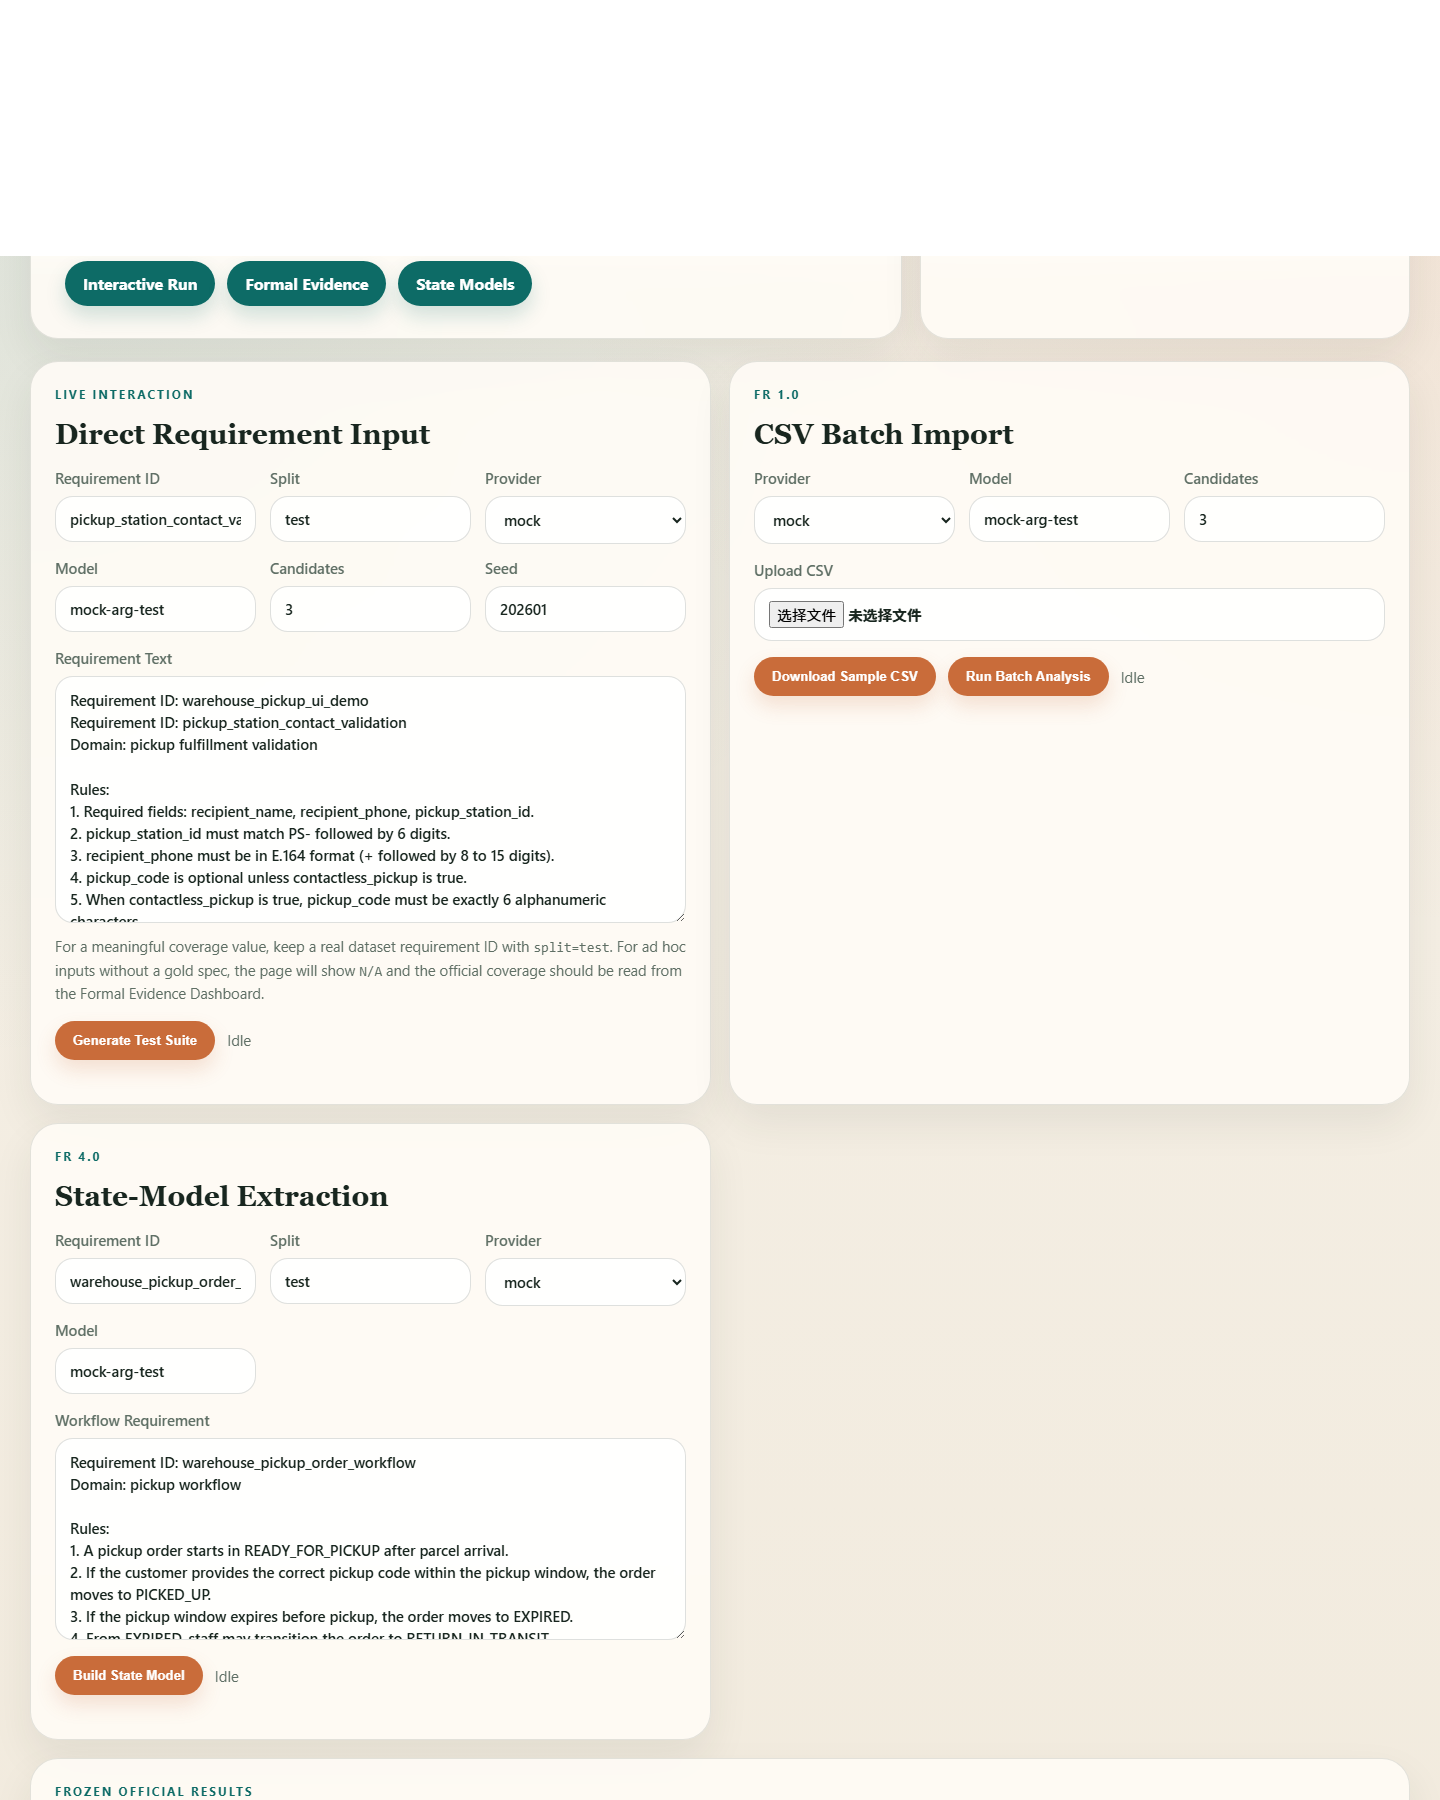
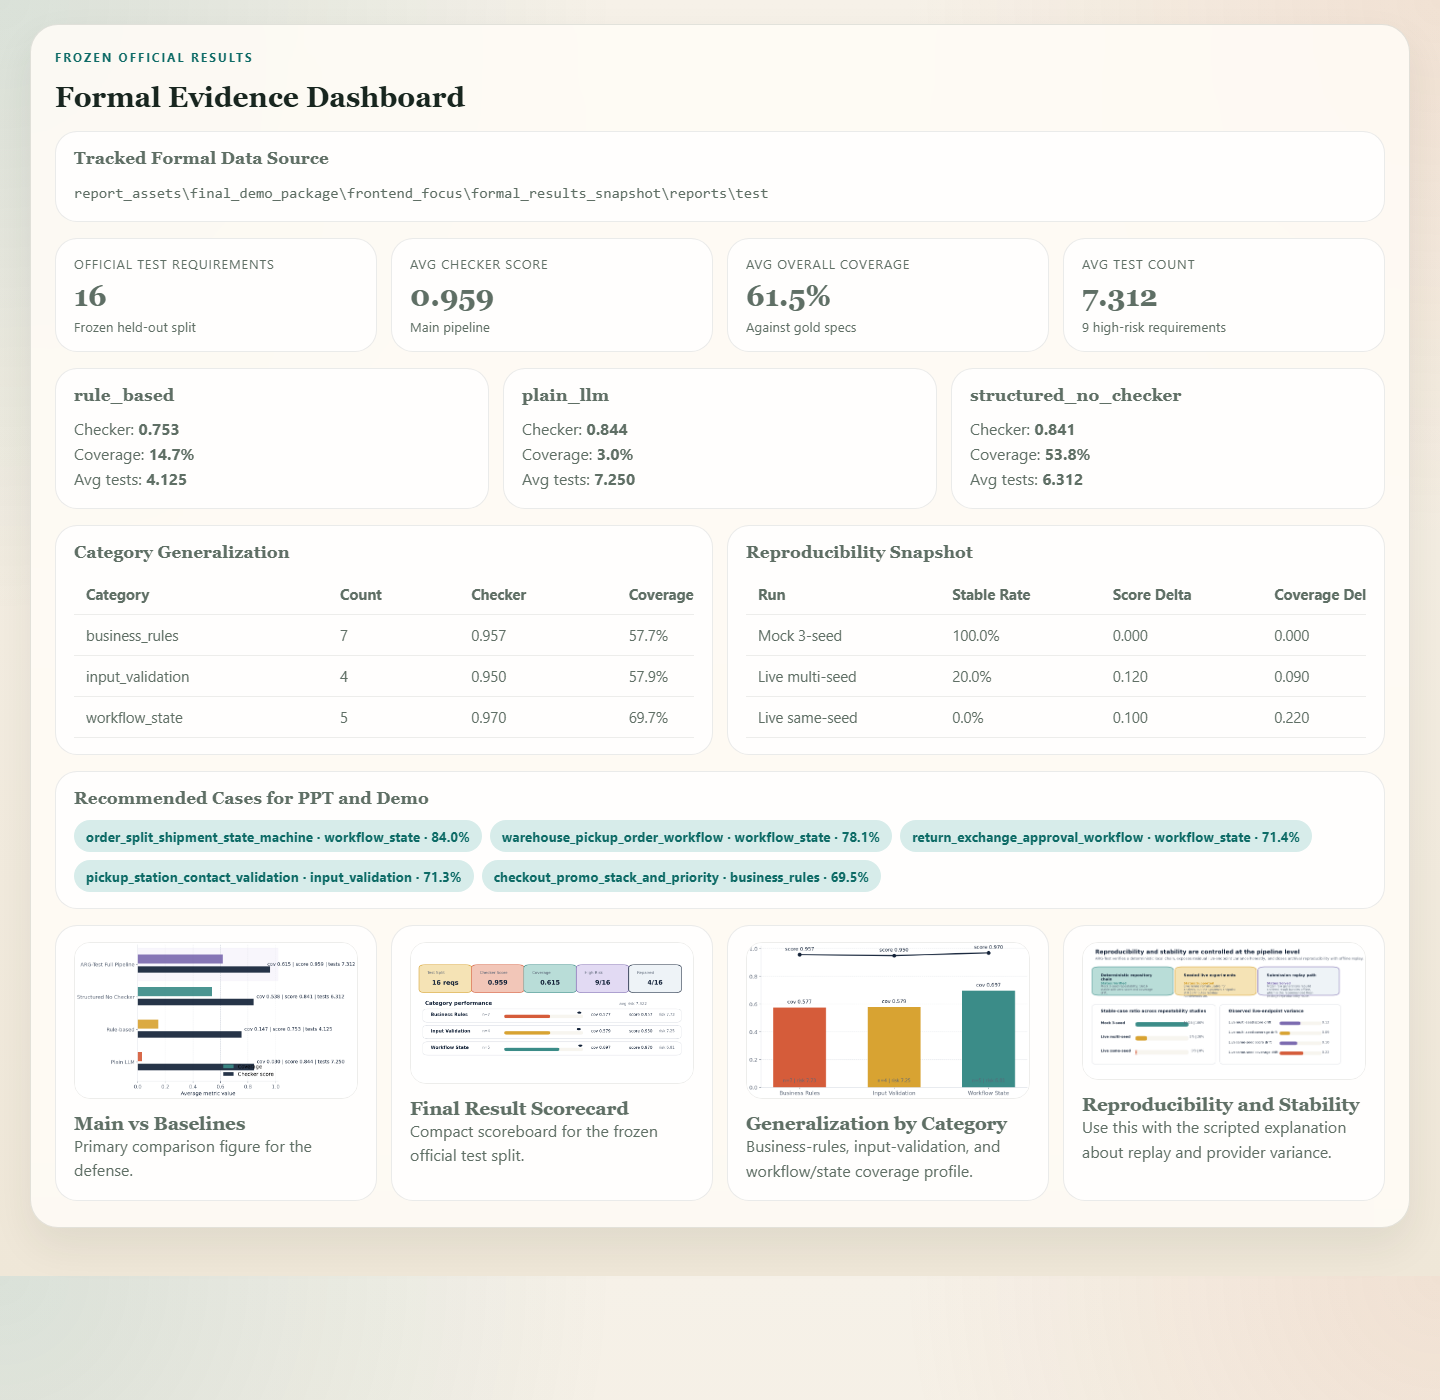
Fix demo defaults and capture focused frontend evidence

diff --git a/demo_web/static/styles.css b/demo_web/static/styles.css
@@ -28,6 +28,21 @@ body {
     linear-gradient(180deg, #f6f1e8 0%, #efe7d8 100%);
 }
 
+body.focus-formal .hero,
+body.focus-formal #interactive,
+body.focus-formal #csv-batch,
+body.focus-formal #state-models {
+  display: none;
+}
+
+body.focus-formal .content-grid {
+  display: block;
+}
+
+body.focus-formal .evidence-card {
+  margin-top: 0;
+}
+
 code {
   font-family: "Consolas", "Courier New", monospace;
   font-size: 0.94em;

diff --git a/demo_web/static/app.js b/demo_web/static/app.js
@@ -412,6 +412,13 @@ async function loadFormalSummary() {
 async function maybeAutorun() {
   const params = new URLSearchParams(window.location.search);
   const autorun = params.get("autorun");
+  const focus = params.get("focus");
+  if (focus === "formal") {
+    document.body.classList.add("focus-formal");
+    setTimeout(() => {
+      document.getElementById("formal-evidence")?.scrollIntoView({ behavior: "instant", block: "start" });
+    }, 50);
+  }
   if (autorun === "direct") {
     setStatus("text-status", "Auto-running...");
     await runDirectAnalysis();

diff --git a/demo_web/static/index.html b/demo_web/static/index.html
@@ -70,8 +70,7 @@
           </div>
           <label>
             Requirement Text
-            <textarea id="text-requirement" rows="10">Requirement ID: warehouse_pickup_ui_demo
-Requirement ID: pickup_station_contact_validation
+            <textarea id="text-requirement" rows="10">Requirement ID: pickup_station_contact_validation
 Domain: pickup fulfillment validation
 
 Rules: